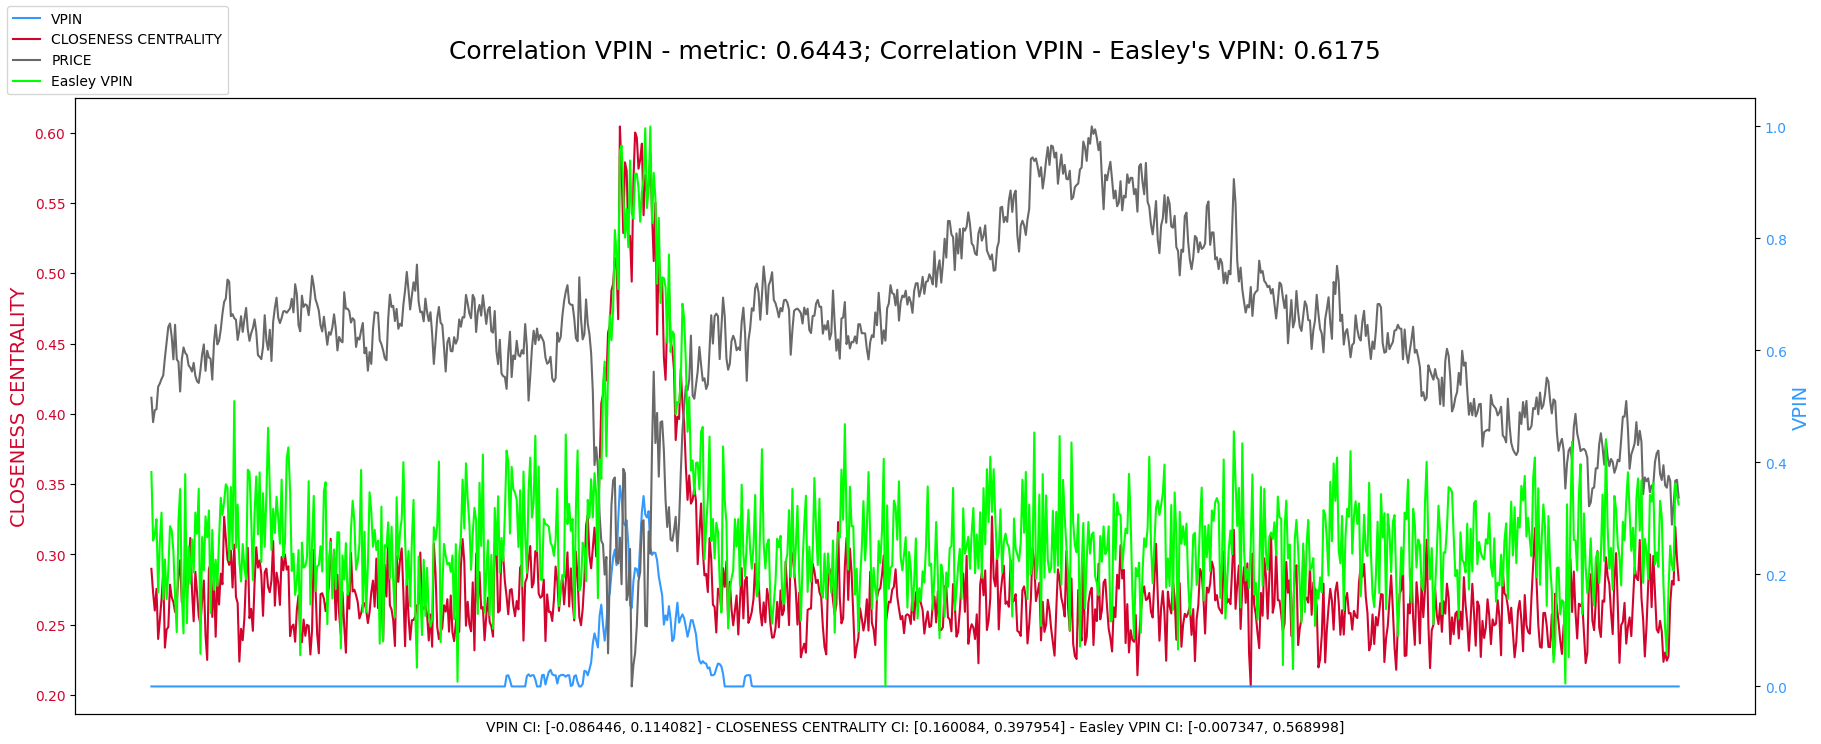
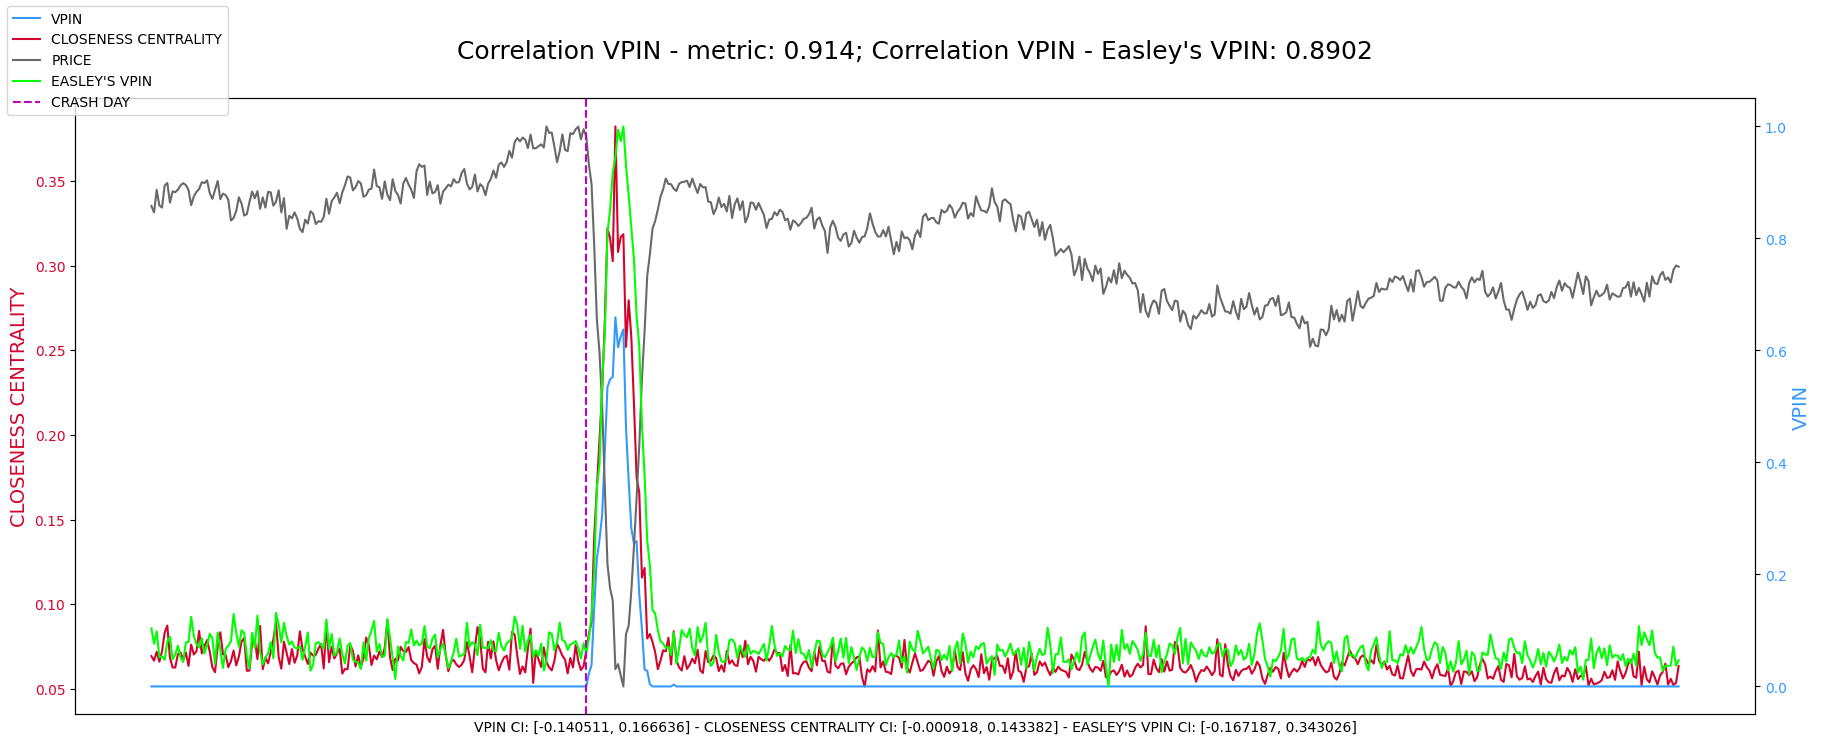
add 2

diff --git a/plots/monte-carlo/graph_metrics.py b/plots/monte-carlo/graph_metrics.py
@@ -17,7 +17,7 @@ def rolling_correlation(Y1, Y2, window_size):
     rolling_corr = rolling_corr[rolling_corr != 0]
     return rolling_corr
 
-def plot_metrics(X, Y1, Y2, Y3, Y4, metric1, metric2, metric3, metric4, window_size, isBig):
+def plot_metrics(X, Y1, Y2, Y3, Y4, metric1, metric2, metric3, metric4, window_size):
     # Y1 = VPIN
     # Y2 = Metric values
     # Y3 = PRICE
@@ -94,7 +94,7 @@ def plot_metrics(X, Y1, Y2, Y3, Y4, metric1, metric2, metric3, metric4, window_s
     percentage = sys.argv[3]
 
     first_crash_index = next((i for i, value in enumerate(Y1) if value > 0), None)
-    crash_day_x = X[first_crash_index] if isBig else X[first_crash_index] - 1
+    crash_day_x = X[first_crash_index] - 1
     crash_day_line = plt.axvline(x=crash_day_x, color='m', linestyle='--')
 
     fig.legend((l1, l2, l3, l4, crash_day_line), (metric1, metric2, metric3, metric4, 'CRASH DAY'), fontsize="medium", loc='upper left')
@@ -437,28 +437,28 @@ if __name__ == '__main__':
 
         # BIG
         plot_metrics(x_axis_big, x_axis_VPIN_big, y_axis_assortativity, y_axis_PRICE_big, e_vpin_norm_big,
-                     "VPIN", "ASSORTATIVITY", "PRICE", "EASLEY'S VPIN", WINDOW_SIZE_BIG, True)
+                     "VPIN", "ASSORTATIVITY", "PRICE", "EASLEY'S VPIN", WINDOW_SIZE_BIG)
         plot_metrics(x_axis_big, x_axis_VPIN_big, y_axis_average_clustering, y_axis_PRICE_big, e_vpin_norm_big,
-                     "VPIN", "AVERAGE CLUSTERING", "PRICE", "EASLEY'S VPIN", WINDOW_SIZE_BIG, True)
+                     "VPIN", "AVERAGE CLUSTERING", "PRICE", "EASLEY'S VPIN", WINDOW_SIZE_BIG)
         plot_metrics(x_axis_big, x_axis_VPIN_big, y_axis_diameter, y_axis_PRICE_big, e_vpin_norm_big,
-                     "VPIN", "DIAMETER", "PRICE", "EASLEY'S VPIN", WINDOW_SIZE_BIG, True)
+                     "VPIN", "DIAMETER", "PRICE", "EASLEY'S VPIN", WINDOW_SIZE_BIG)
         plot_metrics(x_axis_big, x_axis_VPIN_big, y_axis_independence, y_axis_PRICE_big, e_vpin_norm_big,
-                     "VPIN", "MAXIMAL INDEPENDENT SET SIZE", "PRICE", "EASLEY'S VPIN", WINDOW_SIZE_BIG, True)
+                     "VPIN", "MAXIMAL INDEPENDENT SET SIZE", "PRICE", "EASLEY'S VPIN", WINDOW_SIZE_BIG)
         plot_metrics(x_axis_big, x_axis_VPIN_big, y_axis_stars, y_axis_PRICE_big, e_vpin_norm_big,
-                     "VPIN", "NUMBER OF STARS", "PRICE", "EASLEY'S VPIN", WINDOW_SIZE_BIG, True)
+                     "VPIN", "NUMBER OF STARS", "PRICE", "EASLEY'S VPIN", WINDOW_SIZE_BIG)
 
         # SMALL
         plot_metrics(x_axis_small, x_axis_VPIN_small, y_axis_betweeness, y_axis_PRICE_small, e_vpin_norm_small,
-                     "VPIN", "BETWEENNESS CENTRALITY", "PRICE", "EASLEY'S VPIN", WINDOW_SIZE_SMALL, False)
+                     "VPIN", "BETWEENNESS CENTRALITY", "PRICE", "EASLEY'S VPIN", WINDOW_SIZE_SMALL)
         plot_metrics(x_axis_small, x_axis_VPIN_small, y_axis_bipartivity, y_axis_PRICE_small, e_vpin_norm_small,
-                     "VPIN", "BIPARTIVITY", "PRICE", "EASLEY'S VPIN", WINDOW_SIZE_SMALL, False)
+                     "VPIN", "BIPARTIVITY", "PRICE", "EASLEY'S VPIN", WINDOW_SIZE_SMALL)
         plot_metrics(x_axis_small, x_axis_VPIN_small, y_axis_closeness, y_axis_PRICE_small, e_vpin_norm_small,
-                     "VPIN", "CLOSENESS CENTRALITY", "PRICE", "EASLEY'S VPIN", WINDOW_SIZE_SMALL, False)
+                     "VPIN", "CLOSENESS CENTRALITY", "PRICE", "EASLEY'S VPIN", WINDOW_SIZE_SMALL)
         plot_metrics(x_axis_small, x_axis_VPIN_small, y_axis_connected, y_axis_PRICE_small, e_vpin_norm_small,
-                     "VPIN", "CONNECTED COMPONENTS", "PRICE", "EASLEY'S VPIN", WINDOW_SIZE_SMALL, False)
+                     "VPIN", "CONNECTED COMPONENTS", "PRICE", "EASLEY'S VPIN", WINDOW_SIZE_SMALL)
 
 
         plot_metrics(x_axis_big, x_axis_VPIN_big, e_vpin_norm_big, y_axis_PRICE_big, e_vpin_norm_big,
-                     "VPIN", "EASLEY VPIN (Low Frequency)", "PRICE", "EASLEY'S VPIN", WINDOW_SIZE_BIG, True)
+                     "VPIN", "EASLEY VPIN (Low Frequency)", "PRICE", "EASLEY'S VPIN", WINDOW_SIZE_BIG)
         plot_metrics(x_axis_small, x_axis_VPIN_small, e_vpin_norm_small, y_axis_PRICE_small, e_vpin_norm_small,
-                     "VPIN", "EASLEY VPIN (High Frequency)", "PRICE", "EASLEY'S VPIN", WINDOW_SIZE_SMALL, False)
+                     "VPIN", "EASLEY VPIN (High Frequency)", "PRICE", "EASLEY'S VPIN", WINDOW_SIZE_SMALL)
